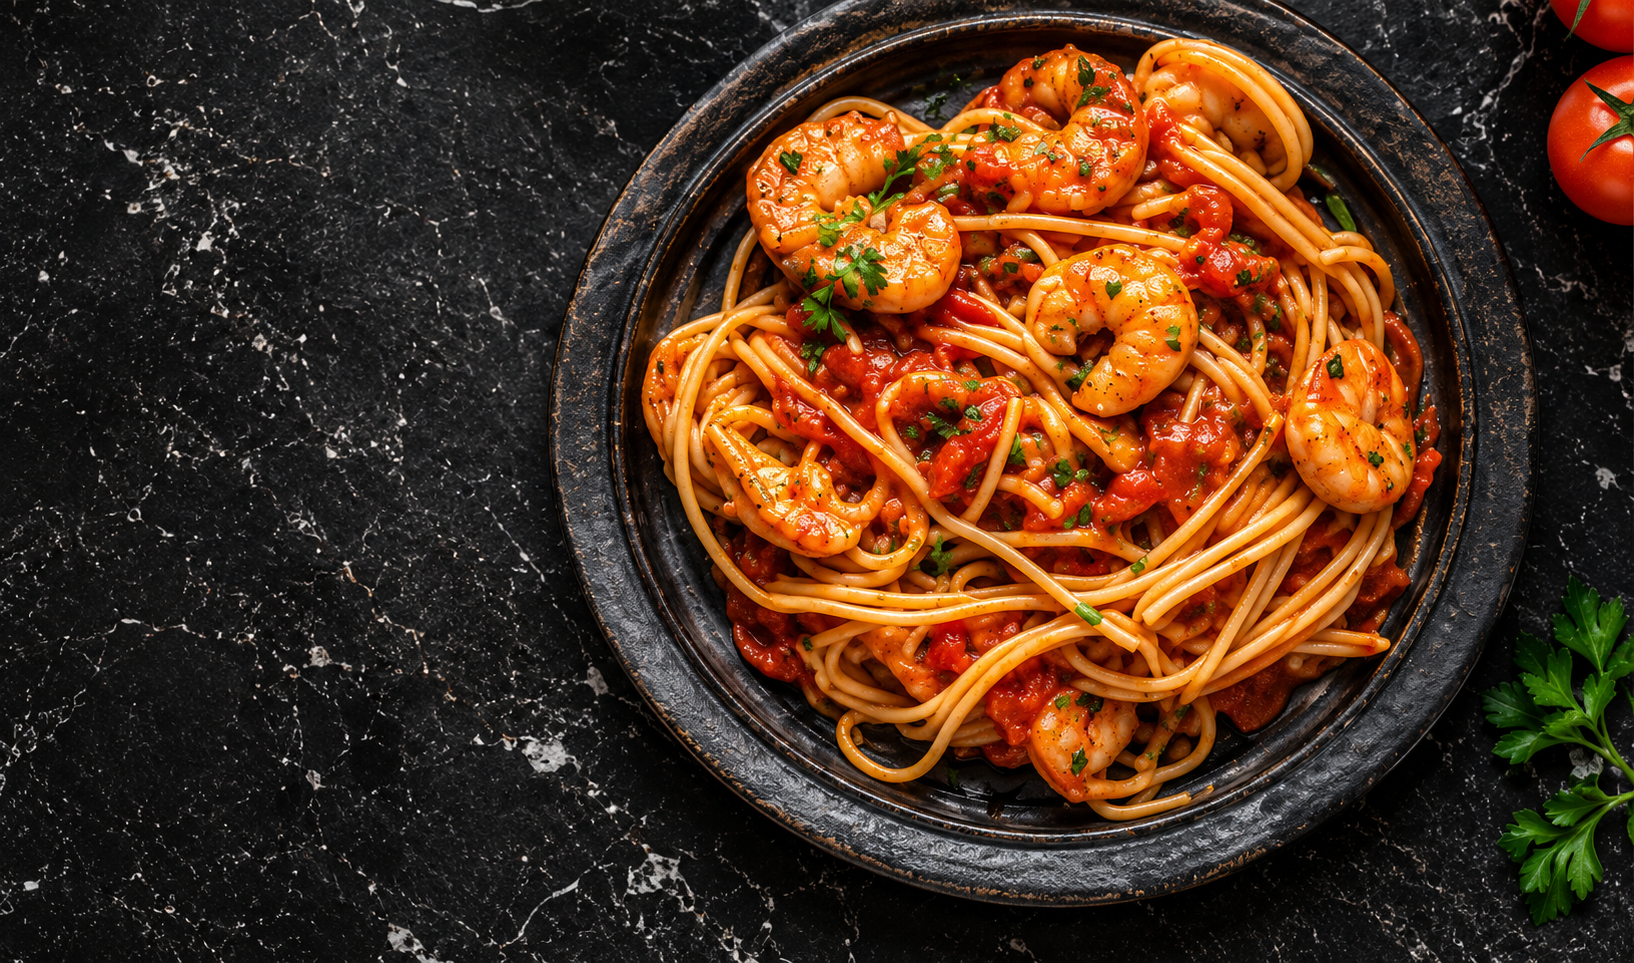
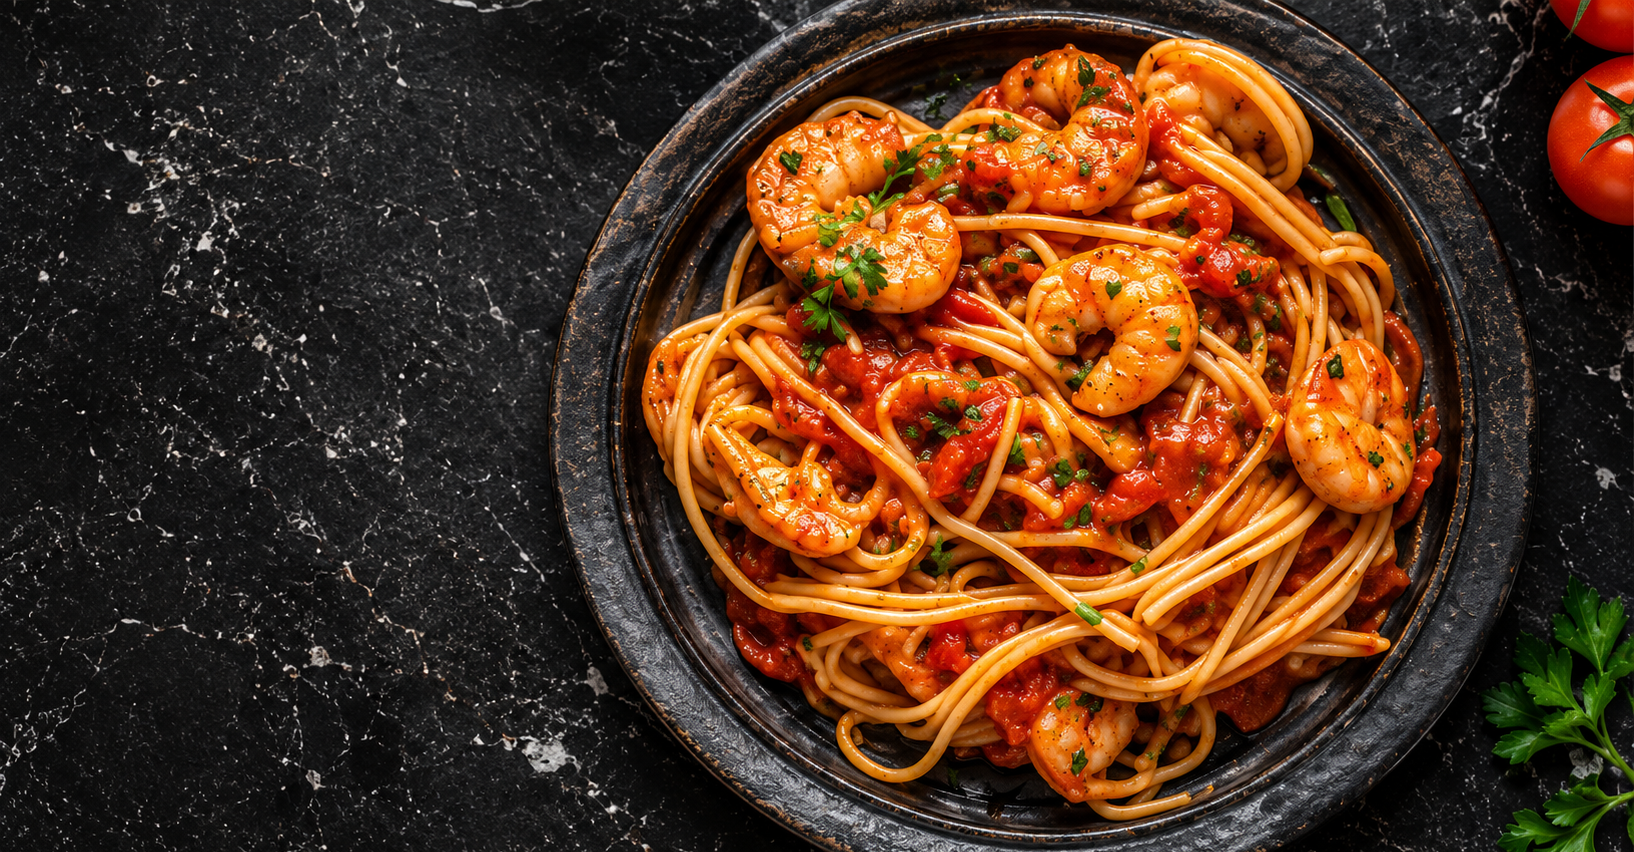
add download app and fix photo size

diff --git a/e15/negin/index.html b/e15/negin/index.html
@@ -7,7 +7,7 @@
     <link rel="stylesheet" href="styles/index.css" />
   </head>
   <body class="bg-orange-50">
-    <div class="w-180 h-250 m-auto mt-20 bg-white rounded-2xl shadow-sm">
+    <div class="w-180 h-240 m-auto mt-20 bg-white rounded-2xl shadow-sm">
       <img
         src="assets/images/spaghetti.png"
         alt="spaghetti"
@@ -27,9 +27,16 @@
         <a
           href="#"
           title="Go to Recipe"
-          class="flex items-center justify-center mt-15 bg-yellow-400 rounded-2xl h-20 text-2xl tracking-wider font-semibold"
+          class="flex items-center justify-center mt-15 bg-yellow-400 rounded-4xl h-20 text-2xl tracking-wider font-semibold"
         >
           View the recipe
+        </a>
+        <a
+          href="#"
+          title="Download"
+          class="flex items-center justify-center mt-15 text-2xl font-semibold"
+        >
+          Download App
         </a>
       </div>
     </div>
